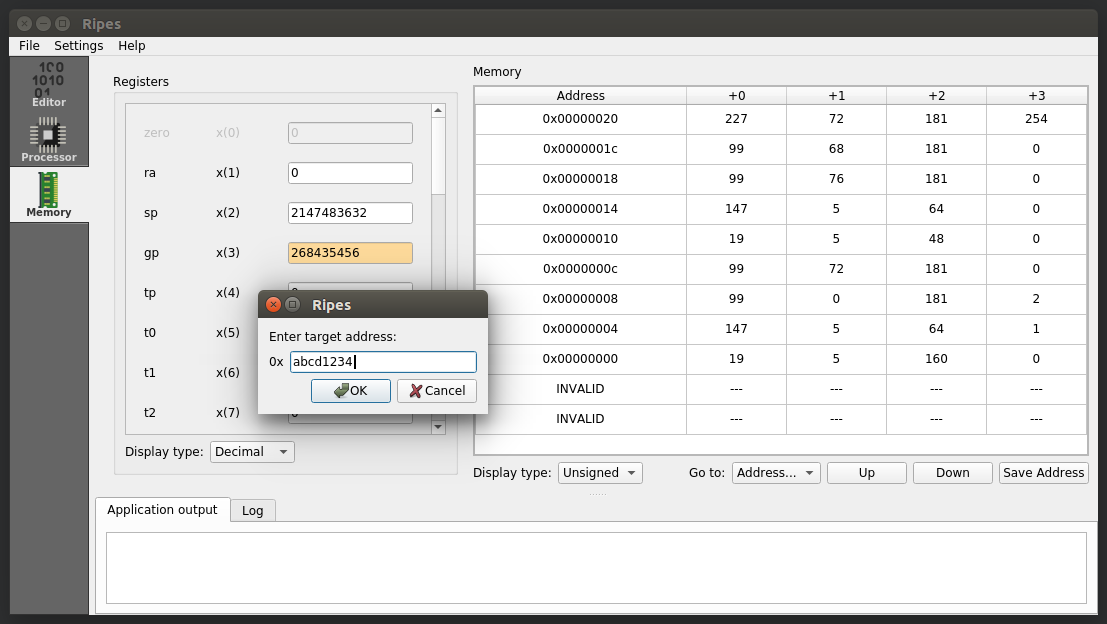
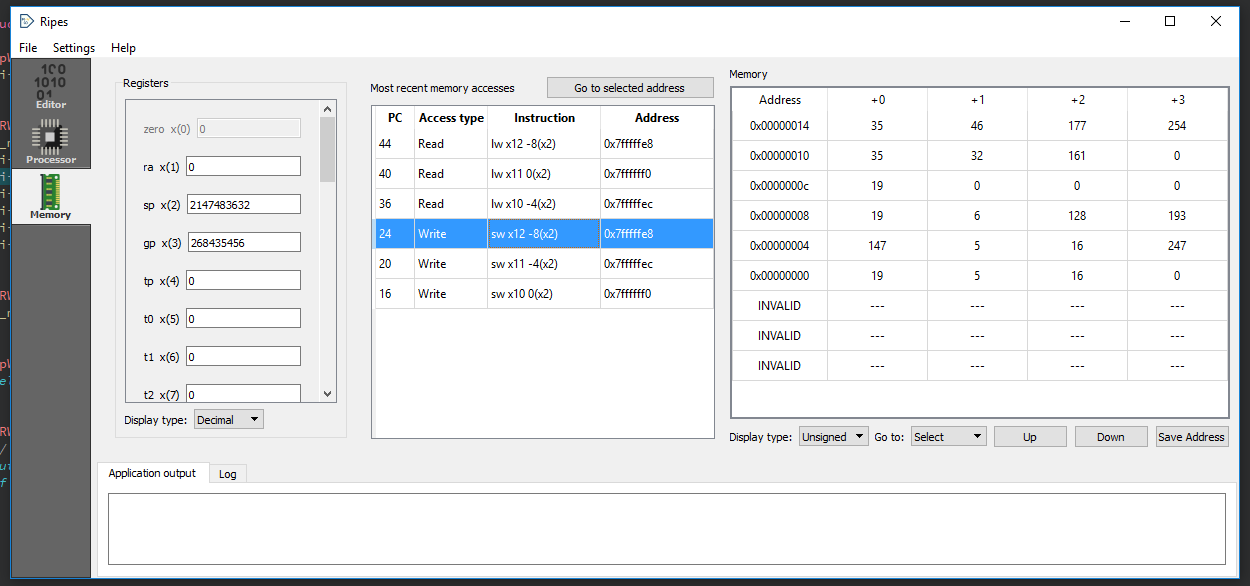
Add support for navigation of memory view through most recent memory accesses
This should allow for easier navigation when using load/store instructions

diff --git a/src/rwjumpmodel.cpp b/src/rwjumpmodel.cpp
@@ -1,0 +1,71 @@
+#include "rwjumpmodel.h"
+
+#include "parser.h"
+#include "pipeline.h"
+
+RWJumpModel::RWJumpModel(QObject* parent) : QAbstractTableModel(parent) {
+    m_pipelinePtr = Pipeline::getPipeline();
+    m_parserPtr = Parser::getParser();
+}
+
+QVariant RWJumpModel::headerData(int section, Qt::Orientation orientation, int role) const {
+    if (orientation == Qt::Horizontal && role == Qt::DisplayRole) {
+        switch (section) {
+            case 0:
+                return "PC";
+            case 1:
+                return "Access type";
+            case 2:
+                return "Instruction";
+            case 3:
+                return "Target address";
+            default:
+                return QVariant();
+        }
+    }
+
+    return QVariant();
+}
+
+int RWJumpModel::rowCount(const QModelIndex& parent) const {
+    Q_UNUSED(parent)
+    int size = m_pipelinePtr->m_RVAccesses.size();
+    return size;
+}
+
+void RWJumpModel::update() {
+    emit dataChanged(index(0, 0), index(rowCount(), columnCount()));
+    beginResetModel();
+    endResetModel();
+}
+
+int RWJumpModel::columnCount(const QModelIndex& parent) const {
+    Q_UNUSED(parent)
+    return 4;  // PC, Write type and instrution
+}
+
+QVariant RWJumpModel::data(const QModelIndex& index, int role) const {
+    const RVAccess& access = m_pipelinePtr->m_RVAccesses[index.row()];
+    if (role == Qt::UserRole) {
+        // Address is requested for jumping
+        return access.addr;
+    }
+    if (role != Qt::DisplayRole)
+        return QVariant();
+    switch (index.column()) {
+        case 0:
+            return access.pc;
+        case 1: {
+            if (access.rw == RW::Read)
+                return "Read";
+            return "Write";
+        }
+        case 2: {
+            return m_parserPtr->getInstructionString(access.pc);
+        }
+        case 3: {
+            return QString("0x%1").arg(QString::number(access.addr, 16));
+        }
+    }
+    return QVariant();
+}

diff --git a/src/pipeline.cpp b/src/pipeline.cpp
@@ -569,6 +569,9 @@ void Pipeline::propagateCombinational() {
     s_alures_PC4_MEM = (uint32_t)(r_jalr_EXMEM || r_jal_EXMEM);
     mux_alures_PC4_MEM.update();
     if (r_MemRead_EXMEM) {
+        // Store read access for use in GUI
+        RVAccess acc{(uint32_t)r_PC_EXMEM, RW::Read, (uint32_t)r_alures_EXMEM};
+        m_RVAccesses.insert(m_RVAccesses.begin(), acc);
         switch ((uint32_t)r_MemRead_EXMEM) {
             case LB: {
                 readData_MEM = m_memory.read((uint32_t)r_alures_EXMEM) & 0xff;
@@ -710,6 +713,9 @@ int Pipeline::step() {
     // Clock inter-stage registers
     m_reg.clock();
     if (r_MemWrite_EXMEM) {
+        // Store write access for use in GUI
+        RVAccess acc{(uint32_t)r_PC_EXMEM, RW::Write, (uint32_t)r_alures_EXMEM};
+        m_RVAccesses.insert(m_RVAccesses.begin(), acc);
         switch ((uint32_t)r_MemWrite_EXMEM) {
             case SB: {
                 m_memory.write((uint32_t)r_alures_EXMEM, (uint32_t)r_writeData_EXMEM, 1);
@@ -798,6 +804,7 @@ void Pipeline::restart() {
     m_finishing = false;
     m_finishingCnt = 0;
     m_pcsCycles.clear();
+    m_RVAccesses.clear();
 
     // Reset all registers to 0 and propagate signals through combinational logic
     RegBase::resetAll();

diff --git a/src/rwjumpwidget.cpp b/src/rwjumpwidget.cpp
@@ -1,0 +1,35 @@
+#include "rwjumpwidget.h"
+#include "ui_rwjumpwidget.h"
+
+#include <QHeaderView>
+
+RWJumpWidget::RWJumpWidget(QWidget* parent) : QWidget(parent), ui(new Ui::RWJumpWidget) {
+    ui->setupUi(this);
+}
+
+void RWJumpWidget::init() {
+    m_model = new RWJumpModel();
+    ui->view->setModel(m_model);
+    ui->view->horizontalHeader()->setSectionResizeMode(0, QHeaderView::ResizeToContents);
+    ui->view->horizontalHeader()->setSectionResizeMode(1, QHeaderView::ResizeToContents);
+    ui->view->horizontalHeader()->setSectionResizeMode(2, QHeaderView::Stretch);
+    ui->view->horizontalHeader()->setSectionResizeMode(3, QHeaderView::Stretch);
+    ui->view->setSelectionBehavior(QAbstractItemView::SelectRows);
+}
+
+void RWJumpWidget::updateModel() {
+    m_model->update();
+}
+
+RWJumpWidget::~RWJumpWidget() {
+    delete ui;
+}
+
+void RWJumpWidget::on_jump_clicked() {
+    // Get selected index
+    auto selecter = ui->view->selectionModel();
+    if (selecter->hasSelection()) {
+        auto indexes = selecter->selectedIndexes();
+        emit jumpToAdress(m_model->data(indexes[0], Qt::UserRole).value<uint32_t>());
+    }
+}

diff --git a/src/rwjumpmodel.h b/src/rwjumpmodel.h
@@ -1,0 +1,29 @@
+#ifndef RWJUMPMODEL_H
+#define RWJUMPMODEL_H
+
+#include <QAbstractTableModel>
+
+class Pipeline;
+class Parser;
+class RWJumpModel : public QAbstractTableModel {
+    Q_OBJECT
+
+public:
+    explicit RWJumpModel(QObject* parent = nullptr);
+
+    // Header:
+    QVariant headerData(int section, Qt::Orientation orientation, int role = Qt::DisplayRole) const override;
+
+    int rowCount(const QModelIndex& parent = QModelIndex()) const override;
+    int columnCount(const QModelIndex& parent = QModelIndex()) const override;
+
+    QVariant data(const QModelIndex& index, int role = Qt::DisplayRole) const override;
+
+    void update();
+
+private:
+    Pipeline* m_pipelinePtr;
+    Parser* m_parserPtr;
+};
+
+#endif  // RWJUMPMODEL_H

diff --git a/src/memorytab.cpp b/src/memorytab.cpp
@@ -24,6 +24,8 @@ void MemoryTab::initMemoryTab() {
     initializeMemoryView();
     m_ui->registerContainer->setRegPtr(m_regPtr);
     m_ui->registerContainer->init();
+    m_ui->rwjumpwidget->init();
+    connect(m_ui->rwjumpwidget, &RWJumpWidget::jumpToAdress, this, &MemoryTab::jumpToAdress);
 }
 
 void MemoryTab::saveAddress() {
@@ -95,6 +97,11 @@ void MemoryTab::initializeMemoryView() {
 void MemoryTab::update() {
     m_ui->registerContainer->update();
     m_model->updateModel();
+    m_ui->rwjumpwidget->updateModel();
+}
+
+void MemoryTab::jumpToAdress(uint32_t address) {
+    m_model->jumpToAddress(address);
 }
 
 MemoryTab::~MemoryTab() {

diff --git a/src/pipeline.h b/src/pipeline.h
@@ -8,6 +8,7 @@
 
 class Pipeline {
     friend class PipelineWidget;
+    friend class RWJumpModel;
 
 public:
     Pipeline();
@@ -55,7 +56,8 @@ private:
         false;  // Set when ecall 10 is detected, and the pipeline is running its remaining instructions through
     bool m_finished = false;
     int m_finishingCnt = 0;
-    std::vector<StagePCS> m_pcsCycles;  // list of PCs for each cycle
+    std::vector<StagePCS> m_pcsCycles;   // list of PCs for each cycle
+    std::vector<RVAccess> m_RVAccesses;  // List of all read/write accesses to memory
 
     // Memory
     Registers m_reg;

diff --git a/src/rwjumpwidget.h b/src/rwjumpwidget.h
@@ -1,0 +1,32 @@
+#ifndef RWJUMPWIDGET_H
+#define RWJUMPWIDGET_H
+
+#include <QWidget>
+#include "rwjumpmodel.h"
+
+namespace Ui {
+class RWJumpWidget;
+}
+
+class RWJumpWidget : public QWidget {
+    Q_OBJECT
+
+public:
+    explicit RWJumpWidget(QWidget* parent = 0);
+    ~RWJumpWidget();
+    void init();
+    void updateModel();
+
+signals:
+    void jumpToAdress(uint32_t);
+
+private slots:
+    void on_jump_clicked();
+
+private:
+    Ui::RWJumpWidget* ui;
+
+    RWJumpModel* m_model;
+};
+
+#endif  // RWJUMPWIDGET_H

diff --git a/src/mainmemory.h b/src/mainmemory.h
@@ -3,6 +3,14 @@
 
 #include "defines.h"
 
+// RVAccess struct - used for keeping track of read and write access to memory, for displaying in GUI
+enum class RW { Read, Write };
+typedef struct {
+    uint32_t pc;  // GUI converts pc value to an instruction
+    RW rw;
+    uint32_t addr;
+} RVAccess;
+
 template <typename key_T, typename value_T>
 class MainMemoryTemplate : public std::unordered_map<key_T, value_T> {
 public:

diff --git a/src/graphics/pipelinewidget.cpp b/src/graphics/pipelinewidget.cpp
@@ -165,7 +165,7 @@ PipelineWidget::PipelineWidget(QWidget* parent) : QGraphicsView(parent) {
         ifid->addInput();
         ifid->addOutput();
     }
-    ifid->addInput("Clock\nenable");
+    ifid->addInput("Enable");
     ifid->addInput("Reset\n(sync.)");
     ifid->addOutput();
     ifid->addOutput();

diff --git a/src/memorytab.h b/src/memorytab.h
@@ -29,6 +29,7 @@ public slots:
     void saveAddress();
 
     void update();
+    void jumpToAdress(uint32_t address);
 
 private:
     void initializeMemoryView();

diff --git a/README.md b/README.md
@@ -57,14 +57,15 @@ Furthermore, the following options are available:
 * The datapath image can be saved to a file
 * **Pipeline table** will display a pop-up window with the stage information for the current program. The program must be run to propagate the chart
 <p align="center">
-    <img src="https://github.com/mortbopet/Ripes/blob/master/resources/ptable.PNG?raw=true"/>
+    <img src="https://github.com/mortbopet/Ripes/blob/master/resources/ptable.?raw=true"/>
 </p>
 
 During execution, the instructions will propagate through the datapath, and be visible both above each stage of the pipeline, as well as in the instruction memory view. Furthermore, when the pipeline is stalled or flushed, this will be indicated above a pipeline stage.
 ## Memory
-Selecting the **Memory** tab will show both the register and memory view. The register view is similar to the one in the processor tab.
-With the memory view, one can inspect all parts of the program memory - text, data, stack and other segments.
-To navigate the memory view, one can use the scroll view to scroll through the memory. Furthermore, an adress can be saved for future use, which can be selected through the "Go-to" combobox. In the "Go-to" combobox, one can specify a specific adress to jump to
+Selecting the **Memory** tab will show you three different views:
+* **Registers** Is similar to the view presented in the processor tab, giving an overview of the contents of each register
+* A memory view, where all parts of the program memory can be inspected. To navigate, one can use the scroll view or select one of the predefined destinations (or to a specific address) via the *Go to* combobox. A label for an address can be saved for future use, via. the *Save address* button. 
+* A list of the most recent memory accesses. Selecting an entry and pressing *Go to selected address* sets the right side memory view to center at the address for the given entry
 
 <p align="center">
     <img src="https://github.com/mortbopet/Ripes/blob/master/resources/memorytab.png?raw=true"/>
